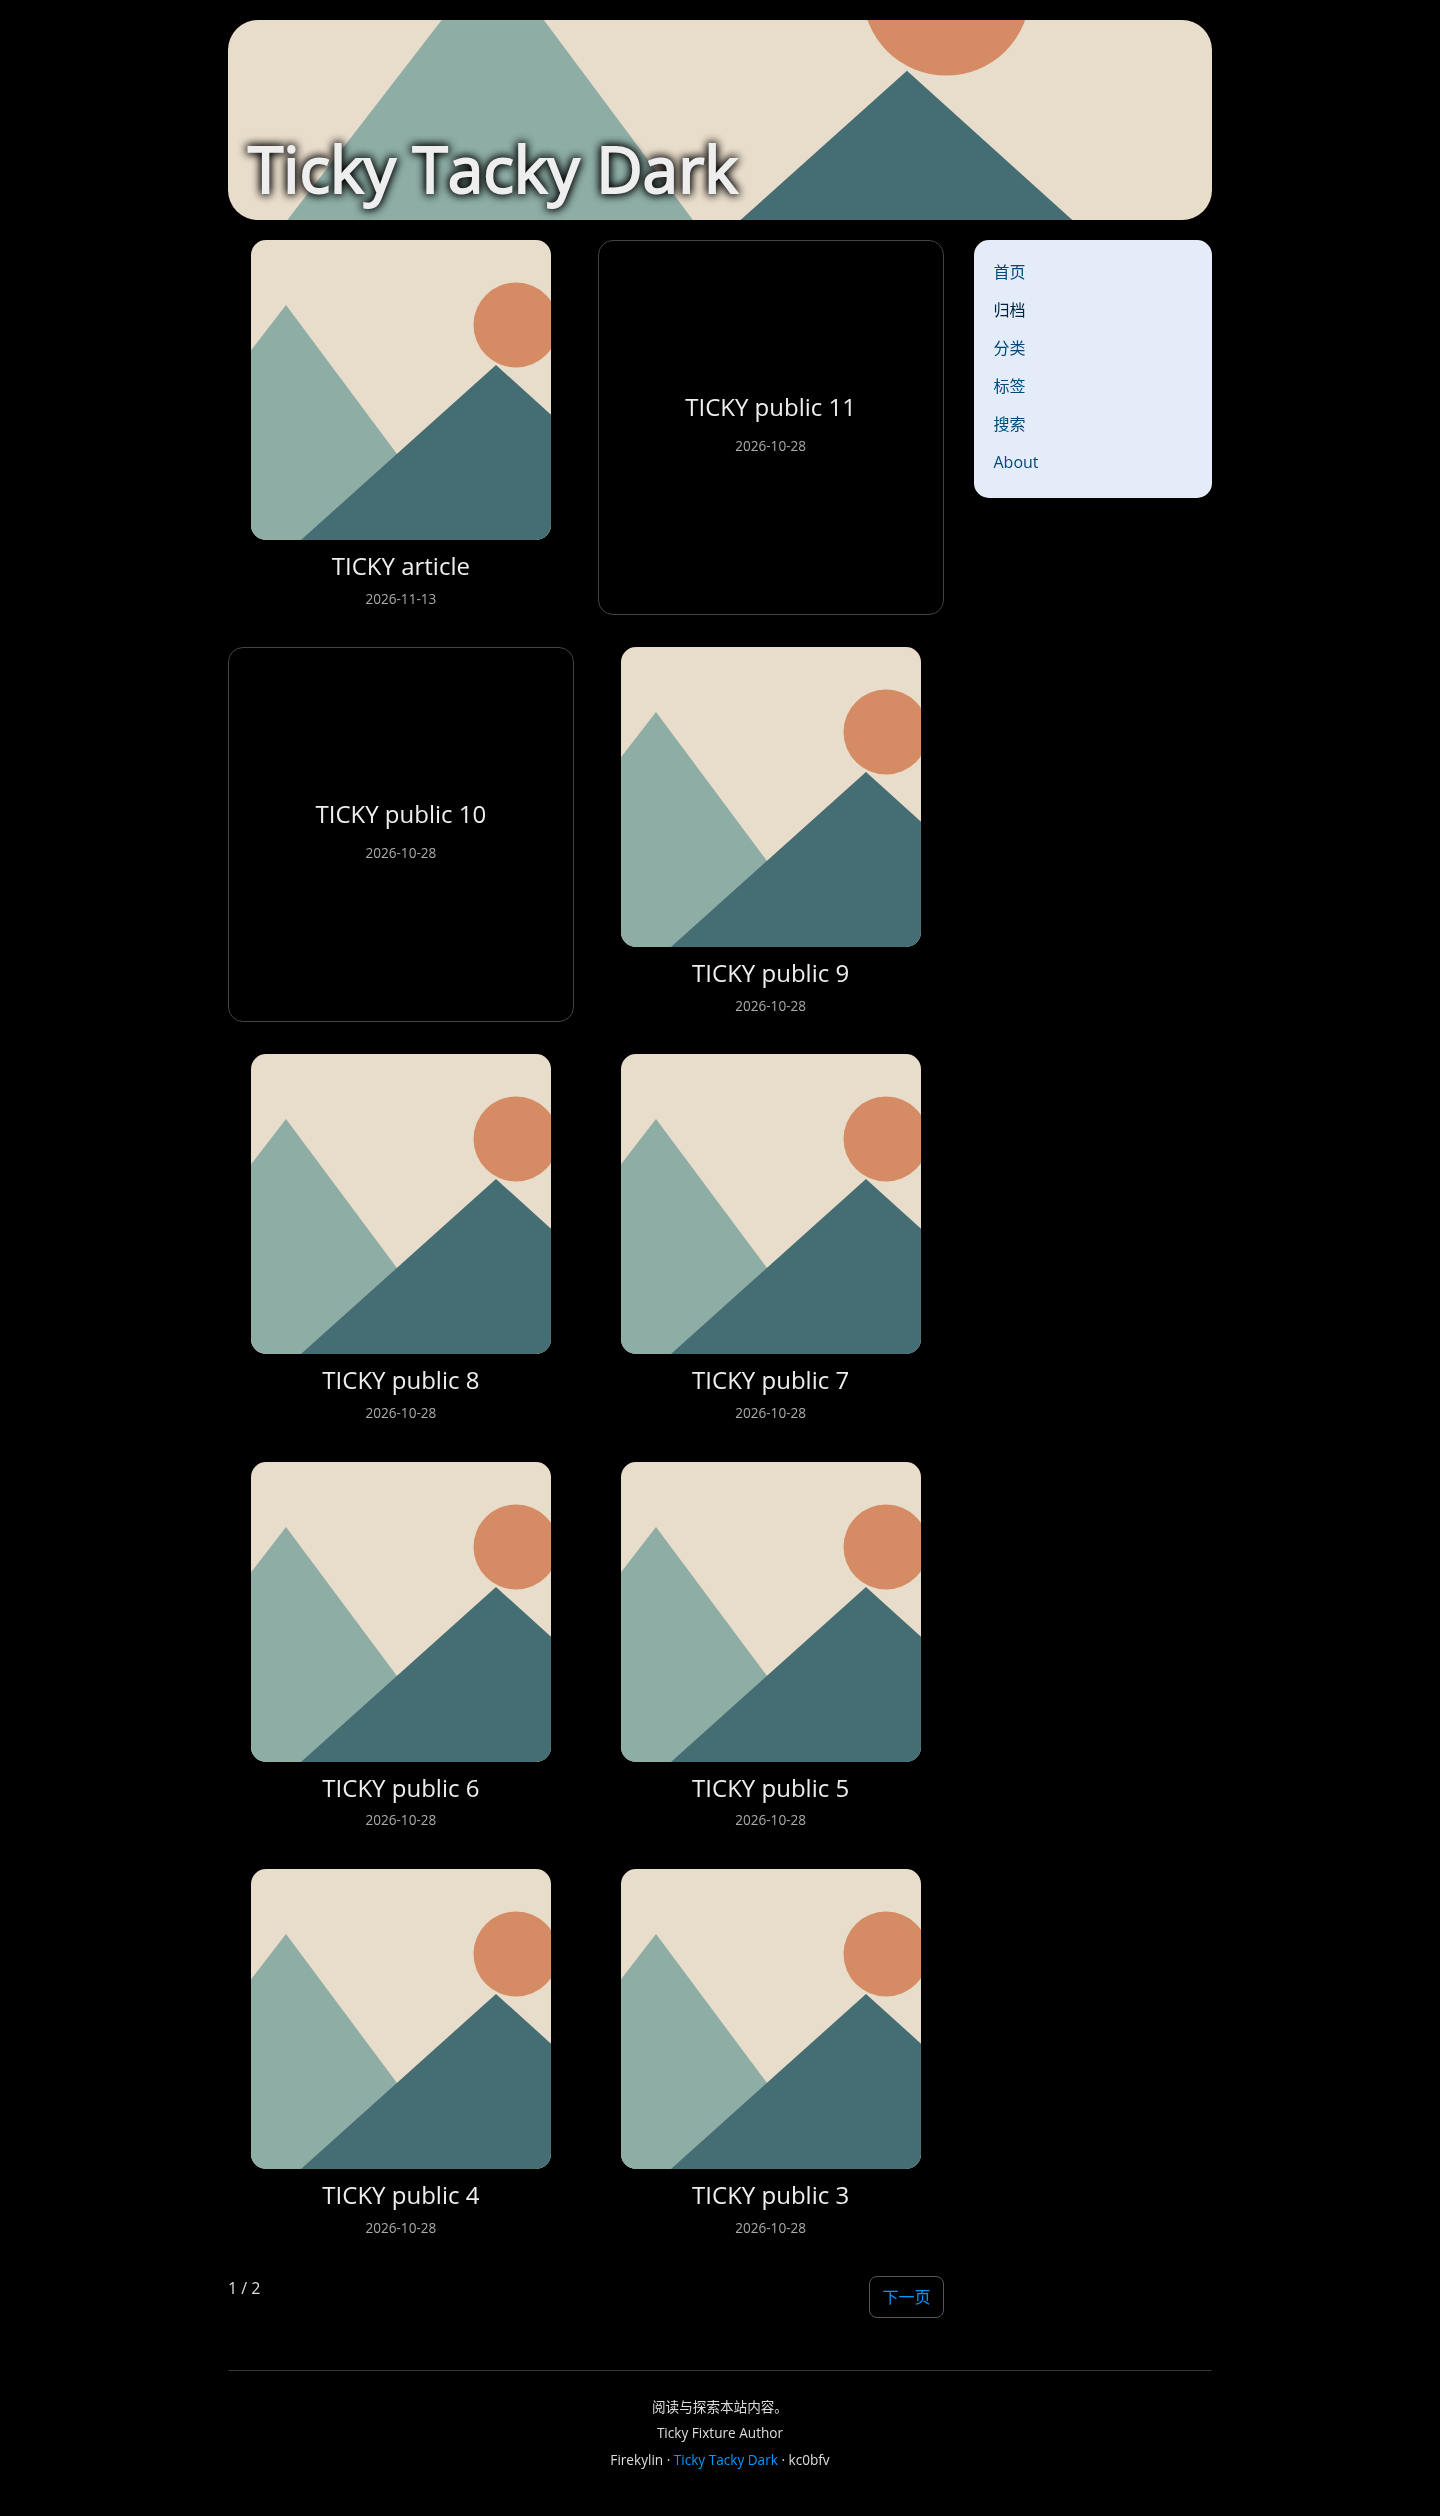
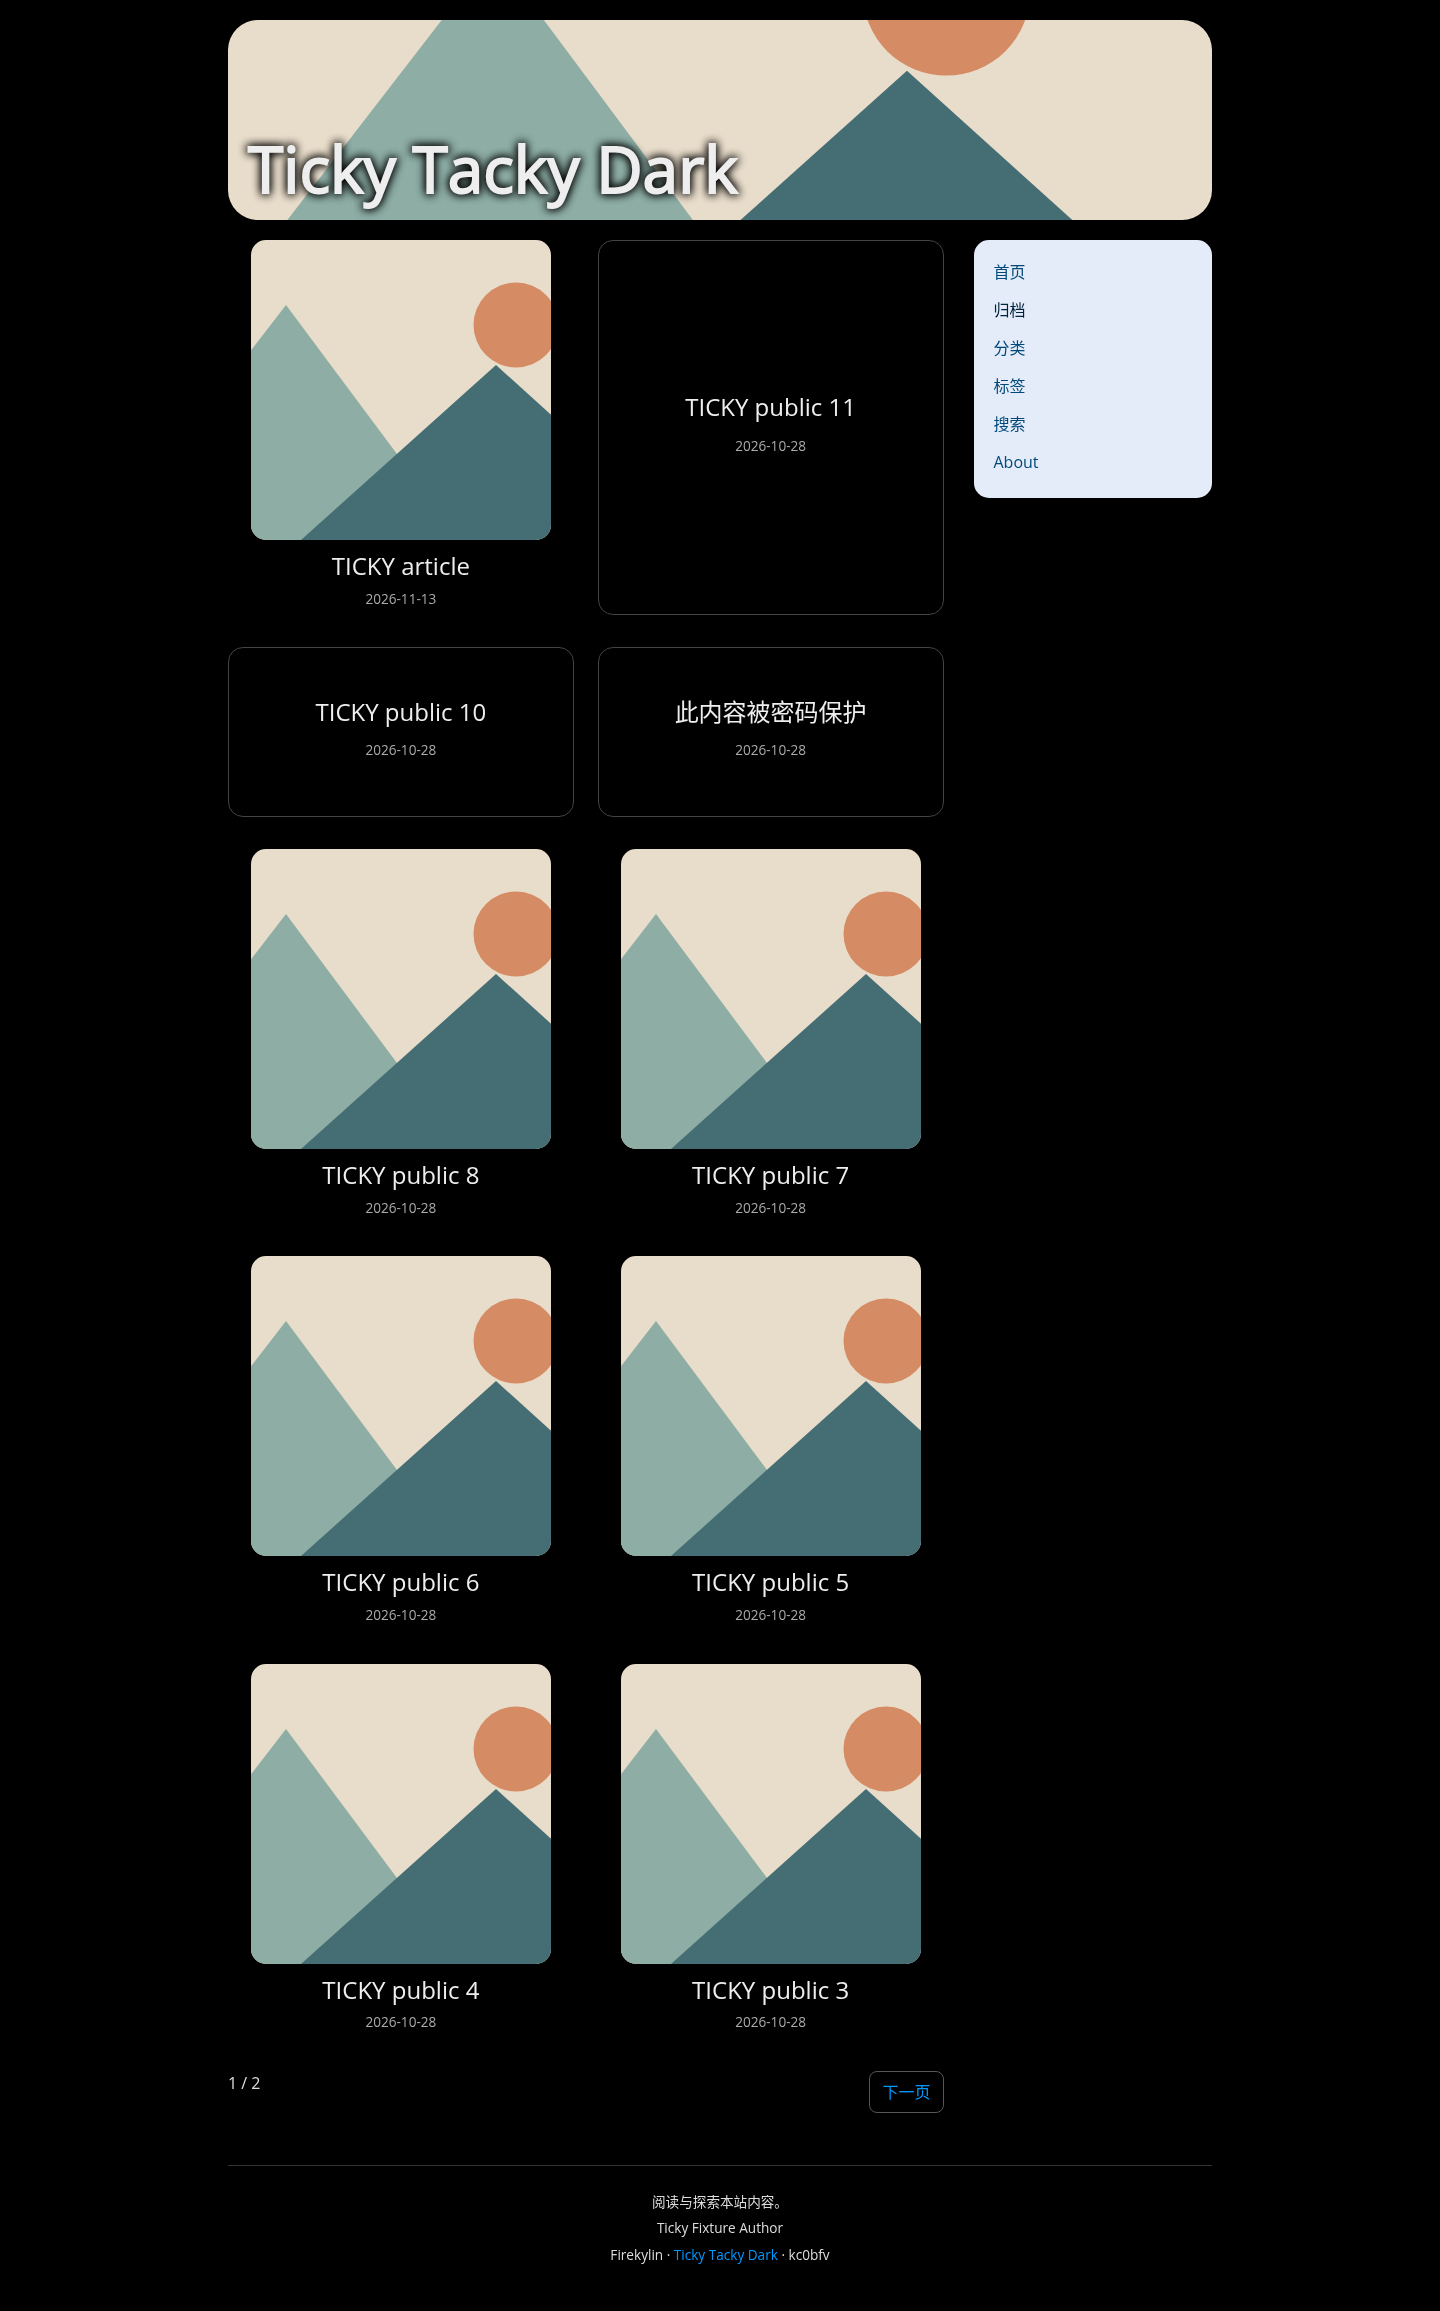
fix: hide protected post covers in Ticky listings

diff --git a/test/ticky_tacky_dark.test.js b/test/ticky_tacky_dark.test.js
@@ -10,3 +10,5 @@ test('ticky_tacky_dark renders attachment media and rejects active file URLs',as
 test('Ticky Tacky Dark identifies taxonomy',async()=>{for(const [kind,label] of [['cate','随笔'],['tag','生活']]){assert.match(await render('ticky_tacky_dark','index',{kind}),new RegExp('<h1[^>]*>'+label+'</h1>')); }});
 
 test('Ticky Tacky Dark rejects active header URLs and escapes title',async()=>{const html=await render('ticky_tacky_dark','index',{config:{headerTitle:'<script>alert(1)</script>',headerImage:'javascript:alert(1)'}});assert(!html.includes('<script>alert(1)'));assert(html.includes('&lt;script&gt;'));assert(!html.includes('src="javascript:'));});
+
+test('ticky_tacky_dark suppresses redacted password-protected list covers',async()=>{const {context}=require('./port-fixture');const {Eta}=require('eta');const path=require('node:path');for(const indicator of ['title','password_protected','postPasswordHash']){const ctx=context('ticky_tacky_dark','index');const a=await ctx.widget('Widget_Archive');a.stack[0].options={featuredImage:'/CONFIDENTIAL_COVER.svg'};if(indicator==='title')a.stack[0].title='此内容被密码保护';else if(indicator==='postPasswordHash')a.stack[0].options.postPasswordHash='hash';else a.stack[0].password_protected=true;const html=await new Eta({views:path.join(__dirname,'../packages/ticky_tacky_dark'),varName:'firekylin'}).renderAsync('index',ctx);assert(!html.includes('CONFIDENTIAL_COVER'));}});
